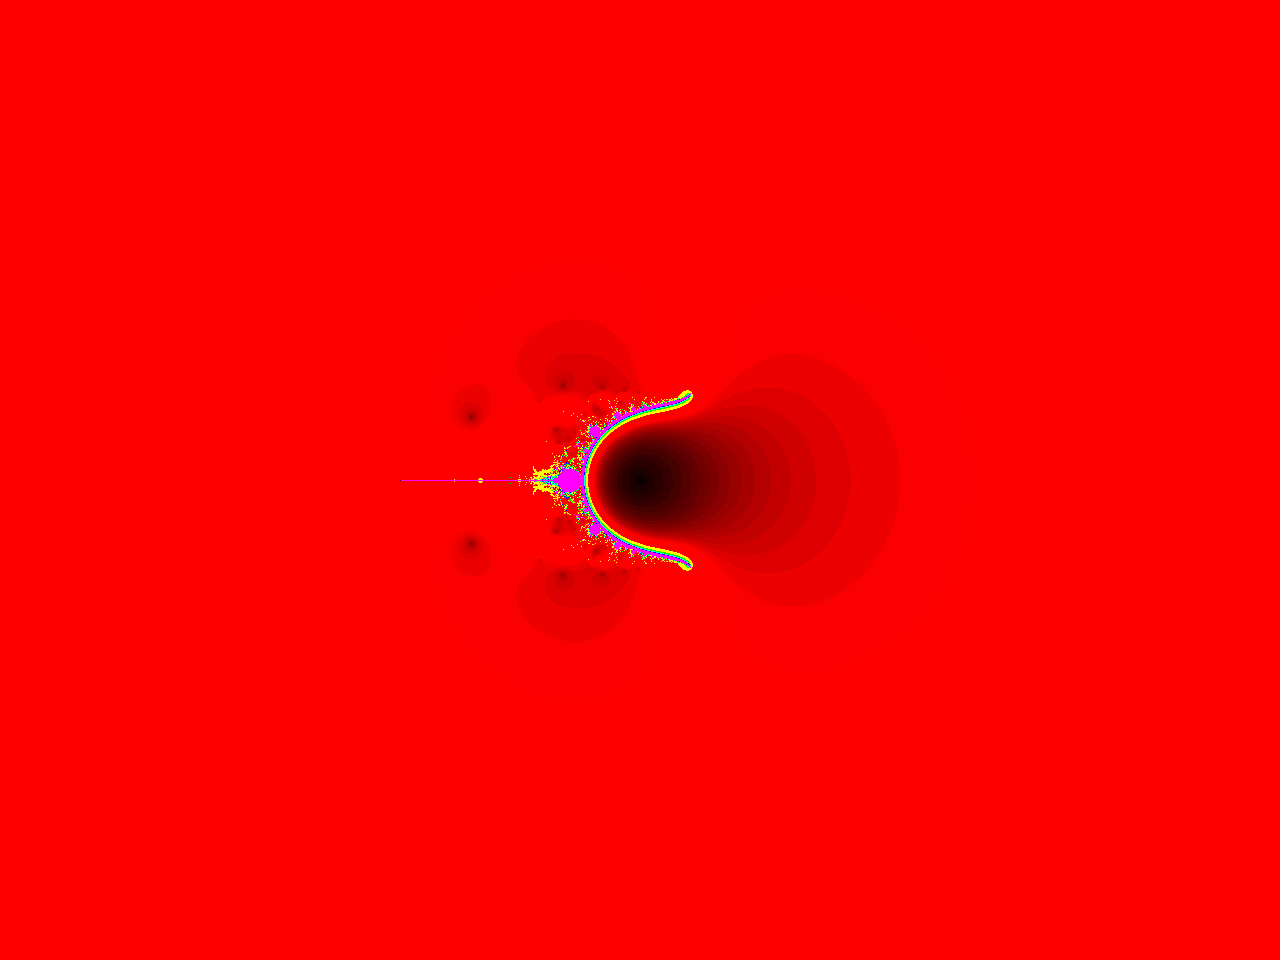
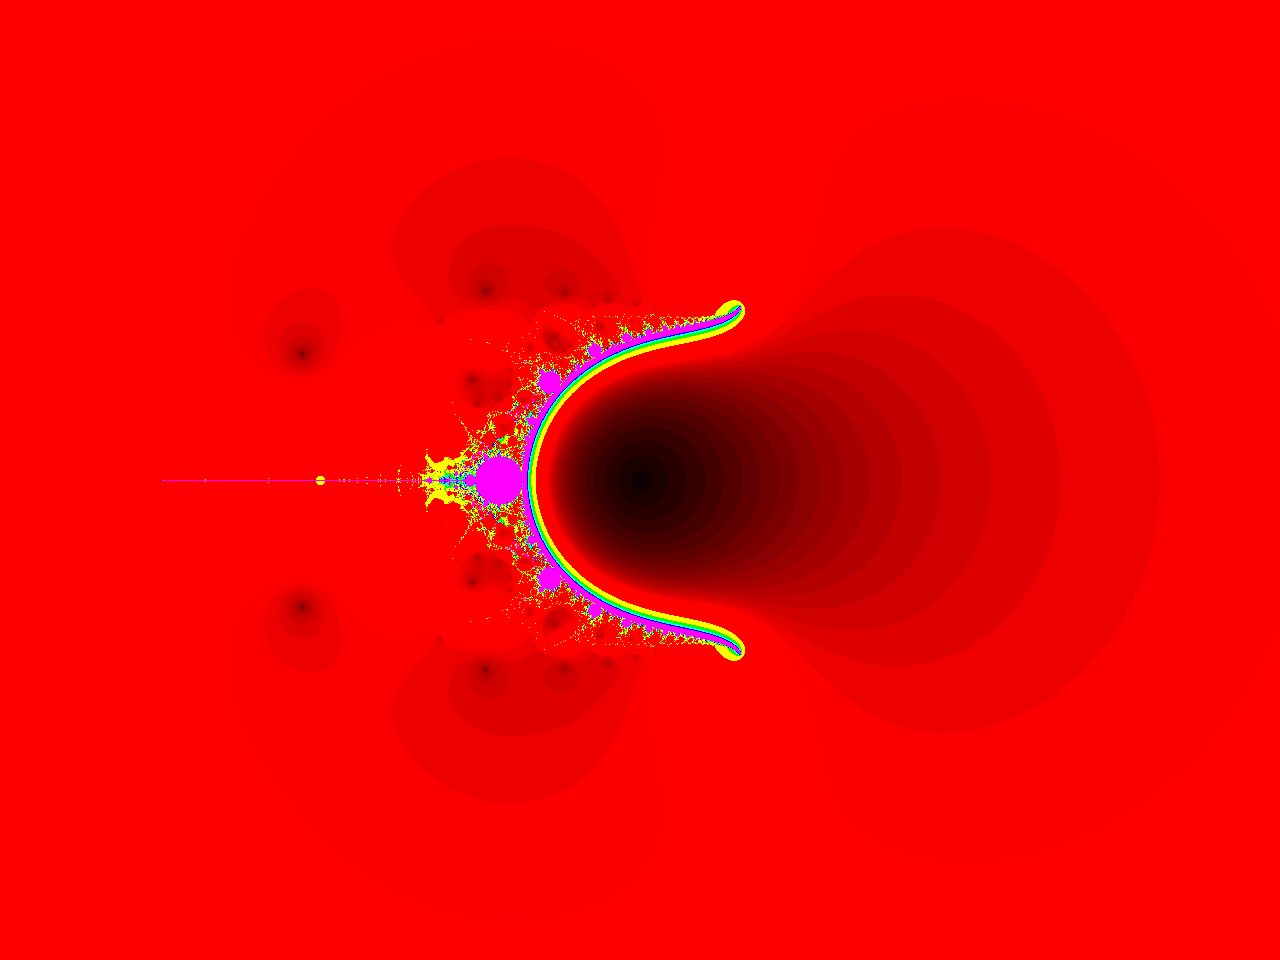
feat(worker): add nova newton z4 generation in local

Changed region(s): [[0.3125, 0.2188, 0.8438, 0.7812], [0.2188, 0.5938, 0.25, 0.6875], [0.2188, 0.3125, 0.25, 0.4062]]

diff --git a/worker/src/worker.rs b/worker/src/worker.rs
@@ -151,28 +151,53 @@ impl Worker {
       FractalDescriptor::IteratedSinZ(descriptor) => {
         self.generate_sin_z_fractal_locally(&resolution, &range, &descriptor, max_iterations)?
       }
-        FractalDescriptor::NovaNewtonZ3(_) => {
-          let epsilon = 1e-6;
-          let polynomial = |z: &Complex| {
-            let z_squared = z.mul(&z);
-            let z_cubed = z_squared.mul(&z);
-            z_cubed.sub(&Complex::new(1.0, 0.0)) // z^3 - 1
-          };
+      FractalDescriptor::NovaNewtonZ3(_) => {
+        let epsilon = 1e-6;
+        let polynomial = |z: &Complex| {
+          let z_squared = z.mul(&z);
+          let z_cubed = z_squared.mul(&z);
+          z_cubed.sub(&Complex::new(1.0, 0.0)) // z^3 - 1
+        };
 
-          let derivative = |z: &Complex| {
-            let z_squared = z.mul(&z);
-            Complex::new(3.0 * z_squared.re, 3.0 * z_squared.im) // 3z^2
-          };
+        let derivative = |z: &Complex| {
+          let z_squared = z.mul(&z);
+          Complex::new(3.0 * z_squared.re, 3.0 * z_squared.im) // 3z^2
+        };
 
-          self.generate_nova_newton_z3_fractal_locally(
-            &resolution,
-            &range,
-            &polynomial,
-            &derivative,
-            max_iterations,
-            epsilon,
-            )?
-        }
+        self.generate_nova_newton_fractal_locally(
+          &resolution,
+          &range,
+          &polynomial,
+          &derivative,
+          max_iterations,
+          epsilon,
+          "nova_newton_fractal_z3",
+        )?
+      }
+      FractalDescriptor::NovaNewtonZ4(_) => {
+        let epsilon = 1e-6;
+        let polynomial = |z: &Complex| {
+          let z_squared = z.mul(&z);
+          let z_fourth = z_squared.mul(&z_squared);
+          z_fourth.sub(&Complex::new(1.0, 0.0)) // z^4 - 1
+        };
+
+        let derivative = |z: &Complex| {
+          let z_squared = z.mul(&z);
+          let z_cubed = z_squared.mul(&z);
+          Complex::new(4.0 * z_cubed.re, 4.0 * z_cubed.im) // 4z^3
+        };
+
+        self.generate_nova_newton_fractal_locally(
+          &resolution,
+          &range,
+          &polynomial,
+          &derivative,
+          max_iterations,
+          epsilon,
+          "nova_newton_fractal_z4",
+        )?
+      }
       _ => println!("Unknown fractal descriptor..."),
     }
 
@@ -351,7 +376,7 @@ impl Worker {
     Rgb([r, g, b])
   }
 
-  fn generate_nova_newton_z3_fractal_locally(
+  fn generate_nova_newton_fractal_locally(
     &self,
     resolution: &Resolution,
     range: &Range,
@@ -359,9 +384,10 @@ impl Worker {
     derivative: &dyn Fn(&Complex) -> Complex, // p'(z)
     max_iterations: i32,
     epsilon: f64,
+    generated_image_name: &str,
   ) -> Result<(), image::ImageError> {
     let (width, height) = (resolution.nx, resolution.ny);
-    let mut image = ImageBuffer::new(width as u32,height as u32);
+    let mut image = ImageBuffer::new(width as u32, height as u32);
 
     let scale_x = (range.max.x - range.min.x) / width as f64;
     let scale_y = (range.max.y - range.min.y) / height as f64;
@@ -395,7 +421,9 @@ impl Worker {
       }
     }
 
-    image.save("generated/images/nova_newton_fractal_z3.png")?;
+    let generated_image_path = format!("generated/images/{}.png", &generated_image_name);
+    image.save(generated_image_path)?;
+
     Ok(())
   }
 
@@ -403,12 +431,36 @@ impl Worker {
     let normalized_count = pixel_intensity.count;
     let slight_variation = (pixel_intensity.zn * 5.0).sin().abs() * 0.1;
 
-    let red_to_yellow = Rgb([(255.0 * normalized_count * 6.0) as u8, (255.0 * slight_variation) as u8, 0]);
-    let yellow_to_green = Rgb([255, (255.0 * (normalized_count * 6.0 - 1.0)) as u8, (255.0 * slight_variation) as u8]);
-    let green_to_cyan = Rgb([(255.0 * (1.0 - (normalized_count * 6.0 - 2.0))) as u8, 255, (255.0 * slight_variation) as u8]);
-    let cyan_to_blue = Rgb([(255.0 * slight_variation) as u8, 255, (255.0 * (normalized_count * 6.0 - 3.0)) as u8]);
-    let blue_to_magenta = Rgb([(255.0 * slight_variation) as u8, (255.0 * (1.0 - (normalized_count * 6.0 - 4.0))) as u8, 255]);
-    let magenta_to_red = Rgb([(255.0 * (normalized_count * 6.0 - 5.0)) as u8, (255.0 * slight_variation) as u8, 255]);
+    let red_to_yellow = Rgb([
+      (255.0 * normalized_count * 6.0) as u8,
+      (255.0 * slight_variation) as u8,
+      0,
+    ]);
+    let yellow_to_green = Rgb([
+      255,
+      (255.0 * (normalized_count * 6.0 - 1.0)) as u8,
+      (255.0 * slight_variation) as u8,
+    ]);
+    let green_to_cyan = Rgb([
+      (255.0 * (1.0 - (normalized_count * 6.0 - 2.0))) as u8,
+      255,
+      (255.0 * slight_variation) as u8,
+    ]);
+    let cyan_to_blue = Rgb([
+      (255.0 * slight_variation) as u8,
+      255,
+      (255.0 * (normalized_count * 6.0 - 3.0)) as u8,
+    ]);
+    let blue_to_magenta = Rgb([
+      (255.0 * slight_variation) as u8,
+      (255.0 * (1.0 - (normalized_count * 6.0 - 4.0))) as u8,
+      255,
+    ]);
+    let magenta_to_red = Rgb([
+      (255.0 * (normalized_count * 6.0 - 5.0)) as u8,
+      (255.0 * slight_variation) as u8,
+      255,
+    ]);
 
     let color = match (normalized_count * 6.0) as i32 {
       0..=1 => red_to_yellow,

diff --git a/src/main.rs b/src/main.rs
@@ -1,4 +1,8 @@
-use shared::{Complex, FractalDescriptor, FragmentRequest, IteratedSinZDescriptor, JuliaDescriptor, MandelbrotDescriptor, NovaNewtonRaphsonZ3Descriptor, Point, Range, Resolution};
+use shared::{
+  Complex, FractalDescriptor, FragmentRequest, IteratedSinZDescriptor, JuliaDescriptor,
+  MandelbrotDescriptor, NovaNewtonRaphsonZ3Descriptor, NovaNewtonRaphsonZ4Descriptor, Point, Range,
+  Resolution,
+};
 use worker::Worker;
 
 fn main() -> Result<(), Box<dyn std::error::Error>> {
@@ -70,7 +74,29 @@ fn main() -> Result<(), Box<dyn std::error::Error>> {
     max_iterations,
   )?;
 
-  worker.generate_fractal_locally(&resolution, &range, FractalDescriptor::NovaNewtonZ3(NovaNewtonRaphsonZ3Descriptor{}), max_iterations)?;
+  let nova_newton_z3_range = Range {
+    min: Point { x: -2.0, y: -1.5 },
+    max: Point { x: 2.0, y: 1.5 },
+  };
+
+  worker.generate_fractal_locally(
+    &resolution,
+    &nova_newton_z3_range,
+    FractalDescriptor::NovaNewtonZ3(NovaNewtonRaphsonZ3Descriptor {}),
+    max_iterations,
+  )?;
+
+  let nova_newton_z4_range = Range {
+    min: Point { x: -2.5, y: -1.5 },
+    max: Point { x: 2.0, y: 1.5 },
+  };
+
+  worker.generate_fractal_locally(
+    &resolution,
+    &nova_newton_z4_range,
+    FractalDescriptor::NovaNewtonZ4(NovaNewtonRaphsonZ4Descriptor {}),
+    max_iterations,
+  )?;
 
   Ok(())
 }

diff --git a/shared/src/shared_structs.rs b/shared/src/shared_structs.rs
@@ -89,6 +89,7 @@ pub enum FractalDescriptor {
   Mandelbrot(MandelbrotDescriptor),
   IteratedSinZ(IteratedSinZDescriptor),
   NovaNewtonZ3(NovaNewtonRaphsonZ3Descriptor),
+  NovaNewtonZ4(NovaNewtonRaphsonZ4Descriptor),
 }
 
 #[derive(Debug, Deserialize, Serialize)]
@@ -108,7 +109,8 @@ pub struct IteratedSinZDescriptor {
 #[derive(Debug, Deserialize, Serialize)]
 pub struct NovaNewtonRaphsonZ3Descriptor {}
 
-
+#[derive(Debug, Deserialize, Serialize)]
+pub struct NovaNewtonRaphsonZ4Descriptor {}
 
 pub struct PixelIntensity {
   pub zn: f32,

diff --git a/shared/src/lib.rs b/shared/src/lib.rs
@@ -15,6 +15,7 @@ pub use shared_structs::IteratedSinZDescriptor;
 pub use shared_structs::JuliaDescriptor;
 pub use shared_structs::MandelbrotDescriptor;
 pub use shared_structs::NovaNewtonRaphsonZ3Descriptor;
+pub use shared_structs::NovaNewtonRaphsonZ4Descriptor;
 pub use shared_structs::PixelIntensity;
 pub use shared_structs::Point;
 pub use shared_structs::Range;
